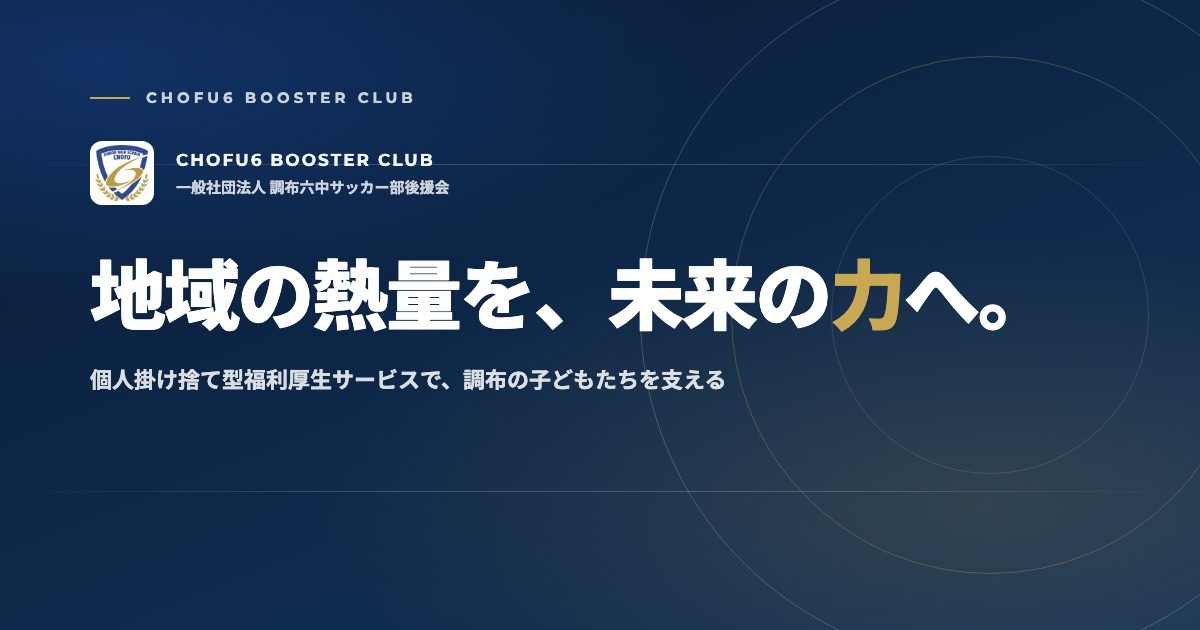
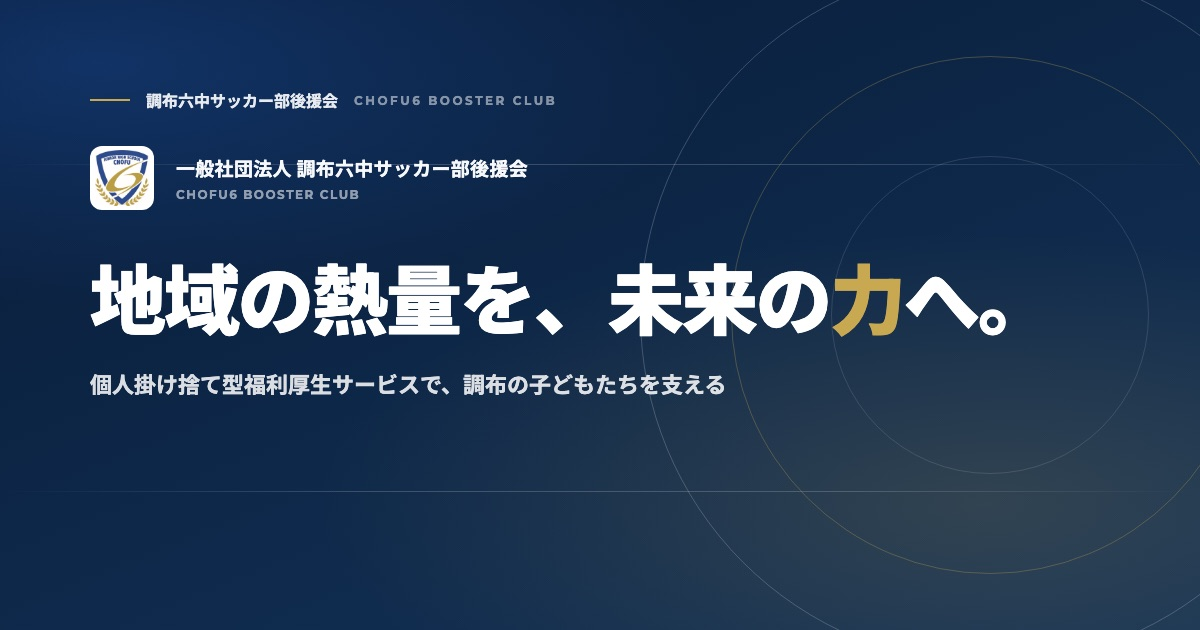
feat: ブランド表記の優先順位を反転 — 「調布六中サッカー部後援会」を主役に
英語ブランド名(chofu6 booster club)が視覚的・SEO的に主役になっていたため、
正式名称である「一般社団法人調布六中サッカー部後援会」を主役に、英語表記を
補足情報として扱うよう全面的に入れ替え。

- <title> / og:site_name / og:title の語順を日本語優先に
- ヘッダーロゴ・フッターの表記サイズ/太さ/明度を反転（日本語=大きく太く明るく、
  英語=小さく控えめに）、DOM順序も日本語を先に
- ヒーローのeyebrow行も同様に反転
- OGPシェア画像を新しい優先順位に合わせて再生成
- JSON-LDは元々 name=日本語 / alternateName=英語 で正しかったため変更なし

diff --git a/index.html b/index.html
@@ -3,7 +3,7 @@
 <head>
   <meta charset="UTF-8">
   <meta name="viewport" content="width=device-width, initial-scale=1.0">
-  <title>chofu6 booster club | 一般社団法人調布六中サッカー部後援会</title>
+  <title>一般社団法人調布六中サッカー部後援会 | chofu6 booster club</title>
   <meta name="description" content="一般社団法人調布六中サッカー部後援会（chofu6 booster club）の公式サイト。個人掛け捨て型福利厚生サービスを通じて、調布から子どもたちのスポーツ環境を支えます。協賛企業・個人賛助会員を募集しています。">
   <meta name="theme-color" content="#0d2748">
 
@@ -13,8 +13,8 @@
   <link rel="canonical" href="https://chofu6booster.com/">
   <meta property="og:type" content="website">
   <meta property="og:url" content="https://chofu6booster.com/">
-  <meta property="og:site_name" content="chofu6 booster club">
-  <meta property="og:title" content="chofu6 booster club | 一般社団法人調布六中サッカー部後援会">
+  <meta property="og:site_name" content="一般社団法人調布六中サッカー部後援会">
+  <meta property="og:title" content="一般社団法人調布六中サッカー部後援会 | chofu6 booster club">
   <meta property="og:description" content="個人掛け捨て型福利厚生サービスを通じて、調布から子どもたちのスポーツ環境を支える新しい仕組み。協賛企業・個人賛助会員を募集しています。">
   <meta property="og:image" content="https://chofu6booster.com/images/ogp.jpg">
   <meta property="og:image:width" content="1200">
@@ -137,8 +137,8 @@
       width: 40px; height: 40px; background: #fff;
       border-radius: 8px; padding: 2px; object-fit: contain; flex-shrink: 0;
     }
-    .logo-en { font-family: 'Montserrat', sans-serif; font-weight: 700; font-size: 13px; color: rgba(255,255,255,0.95); letter-spacing: 2px; text-transform: uppercase; line-height: 1; }
-    .logo-ja { font-size: 11px; color: rgba(255,255,255,0.85); margin-top: 5px; letter-spacing: 0.3px; }
+    .logo-ja { font-size: 13.5px; font-weight: 700; color: rgba(255,255,255,0.97); letter-spacing: 0.3px; line-height: 1.3; }
+    .logo-en { font-family: 'Montserrat', sans-serif; font-weight: 600; font-size: 10px; color: rgba(255,255,255,0.55); letter-spacing: 1.5px; text-transform: uppercase; margin-top: 4px; line-height: 1; }
     nav { display: flex; align-items: center; gap: 40px; }
     nav a { font-size: 14px; font-weight: 500; color: rgba(255,255,255,0.82); text-decoration: none; transition: color 0.15s; letter-spacing: 0.2px; }
     nav a:hover { color: rgba(255,255,255,1); }
@@ -178,8 +178,10 @@
       font-family: 'Montserrat', sans-serif; font-size: 12px; font-weight: 700; letter-spacing: 4px; text-transform: uppercase; color: rgba(255,255,255,0.75); margin-bottom: 40px;
     }
     .hero-eyebrow::before { content: ''; display: block; width: 36px; height: 2px; background: var(--accent); flex-shrink: 0; }
-    /* 検索エンジン・初見の訪問者の双方に正式名称を伝えるための併記（隠し要素ではなく可視テキスト） */
-    .hero-eyebrow-ja { font-family: 'Noto Sans JP', sans-serif; font-weight: 500; letter-spacing: 0.5px; text-transform: none; color: rgba(255,255,255,0.55); }
+    /* 検索エンジン・初見の訪問者の双方に正式名称を伝えるための併記（隠し要素ではなく可視テキスト）。
+       正式名称（日本語）を主役、英語ブランド名を脇役として扱う */
+    .hero-eyebrow-ja { font-family: 'Noto Sans JP', sans-serif; font-weight: 700; letter-spacing: 0.5px; text-transform: none; font-size: 13px; color: rgba(255,255,255,0.90); }
+    .hero-eyebrow-en { font-family: 'Montserrat', sans-serif; font-weight: 600; letter-spacing: 2px; text-transform: uppercase; font-size: 10.5px; color: rgba(255,255,255,0.50); }
     .hero h1 { font-size: clamp(52px, 7vw, 88px); font-weight: 900; line-height: 1.04; color: var(--white); margin-bottom: 32px; letter-spacing: -2px; }
     .hero h1 em { font-style: normal; color: var(--accent); }
     .hero-sub { font-size: 17px; color: rgba(255,255,255,0.92); line-height: 2.0; margin-bottom: 60px; max-width: 500px; font-weight: 400; }
@@ -298,8 +300,8 @@
     .footer-inner { max-width: var(--max-w); margin: 0 auto; display: flex; align-items: flex-start; justify-content: space-between; gap: 40px; flex-wrap: wrap; }
     .footer-brand { display: flex; align-items: center; gap: 16px; }
     .footer-brand img { width: 52px; height: 52px; background: #fff; border-radius: 10px; padding: 3px; object-fit: contain; flex-shrink: 0; }
-    .footer-logo { font-family: 'Montserrat', sans-serif; font-weight: 700; font-size: 13px; color: rgba(255,255,255,0.95); letter-spacing: 2px; text-transform: uppercase; }
-    .footer-ja { font-size: 12px; color: rgba(255,255,255,0.75); margin-top: 6px; letter-spacing: 0.3px; }
+    .footer-ja { font-size: 14px; font-weight: 700; color: rgba(255,255,255,0.95); letter-spacing: 0.3px; }
+    .footer-logo { font-family: 'Montserrat', sans-serif; font-weight: 600; font-size: 10.5px; color: rgba(255,255,255,0.55); letter-spacing: 1.5px; text-transform: uppercase; margin-top: 6px; }
     .footer-nav { display: flex; gap: 28px; flex-wrap: wrap; padding-top: 8px; }
     .footer-nav a { font-size: 13px; color: rgba(255,255,255,0.78); text-decoration: none; transition: color 0.15s; letter-spacing: 0.3px; }
     .footer-nav a:hover { color: #fff; }
@@ -441,14 +443,15 @@
       .member-cta-area { flex-direction: column; align-items: flex-start; gap: 16px; }
 
       /* ヘッダー */
-      .logo-en { font-size: 12px; }
-      .logo-ja { font-size: 10px; }
+      .logo-ja { font-size: 12px; }
+      .logo-en { font-size: 9px; }
 
       /* ヒーロー */
       .hero h1 { font-size: clamp(38px, 9vw, 60px); letter-spacing: -1.5px; }
       .hero-sub { font-size: 15px; line-height: 1.9; }
-      .hero-eyebrow { font-size: 10px; letter-spacing: 3px; margin-bottom: 28px; }
-      .hero-eyebrow-ja { font-size: 11px; }
+      .hero-eyebrow { margin-bottom: 28px; }
+      .hero-eyebrow-ja { font-size: 12px; }
+      .hero-eyebrow-en { font-size: 9px; letter-spacing: 1.5px; }
 
       /* セクション見出し */
       .section-title { font-size: clamp(28px, 6.5vw, 44px); letter-spacing: -1px; }
@@ -487,8 +490,9 @@
       /* ヒーロー */
       .hero h1 { font-size: clamp(34px, 11vw, 48px); letter-spacing: -1px; line-height: 1.1; }
       .hero-sub { font-size: 14px; line-height: 1.85; margin-bottom: 40px; }
-      .hero-eyebrow { font-size: 9px; letter-spacing: 2.5px; margin-bottom: 24px; }
-      .hero-eyebrow-ja { font-size: 10px; }
+      .hero-eyebrow { margin-bottom: 24px; }
+      .hero-eyebrow-ja { font-size: 10.5px; }
+      .hero-eyebrow-en { font-size: 8px; letter-spacing: 1.2px; }
 
       /* セクション見出し */
       .section-title { font-size: clamp(24px, 8vw, 36px); letter-spacing: -0.5px; margin-bottom: 14px; }
@@ -512,7 +516,8 @@
       .flow-num { width: 22px; height: 22px; font-size: 10px; }
       .member-cta-note { font-size: 12px; }
       footer { padding-top: 36px; }
-      .footer-logo { font-size: 12px; }
+      .footer-ja { font-size: 13px; }
+      .footer-logo { font-size: 9.5px; }
       .footer-copy { font-size: 11px; }
       .footer-nav { gap: 16px 22px; }
     }
@@ -526,8 +531,8 @@
   <a href="#" class="logo">
     <img class="logo-mark" src="images/logo.jpg" alt="調布六中サッカー部エンブレム" width="40" height="40">
     <div>
-      <div class="logo-en">chofu6 booster club</div>
       <div class="logo-ja">一般社団法人 調布六中サッカー部後援会</div>
+      <div class="logo-en">chofu6 booster club</div>
     </div>
   </a>
   <nav aria-label="メインナビゲーション">
@@ -574,7 +579,7 @@
   <div class="hero-hline" style="top:70%"></div>
   <div class="hero-vline"></div>
   <div class="hero-content">
-    <div class="hero-eyebrow">Chofu6 Booster Club<span class="hero-eyebrow-ja">調布六中サッカー部後援会</span></div>
+    <div class="hero-eyebrow"><span class="hero-eyebrow-ja">調布六中サッカー部後援会</span><span class="hero-eyebrow-en">Chofu6 Booster Club</span></div>
     <h1>地域の熱量を、<br>未来の<em>力</em>へ。</h1>
     <p class="hero-sub">
       一般社団法人調布六中サッカー部後援会が、個人掛け捨て型福利厚生サービスを通じて、<br>
@@ -1307,8 +1312,8 @@ https://chofu6booster.com/
     <div class="footer-brand">
       <img src="images/logo.jpg" alt="" width="52" height="52">
       <div>
-        <div class="footer-logo">chofu6 booster club</div>
         <div class="footer-ja">一般社団法人 調布六中サッカー部後援会</div>
+        <div class="footer-logo">chofu6 booster club</div>
       </div>
     </div>
     <nav class="footer-nav" aria-label="フッターナビゲーション">
